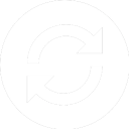
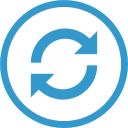
Animation de fou sur la synchro…

diff --git a/GraniouProjectManagement/ViewControllers/PTBAccountVC.m b/GraniouProjectManagement/ViewControllers/PTBAccountVC.m
@@ -68,8 +68,13 @@
 }
 
 - (IBAction)actionLogout:(id)sender {
+    [_viewLoading setHidden:false];
+    [self rotateView];
+    
     _user = [[PTBAuthUser alloc] init];
     [_user tryLogoutUserWithCallback:^(NSDictionary *infos) {
+        [_viewLoading setHidden:false];
+        
         _user = nil;
         if ([[infos objectForKey:@"uploaded"] isEqualToString:@"1"]) {
             
@@ -98,19 +103,20 @@
 
 - (IBAction)actionSync:(id)sender {
     [_viewLoading setHidden:false];
-
-    //_timer = [[NSTimer alloc] initWithFireDate:[NSDate date] interval:2.0 target:self selector:@selector(rotateView) userInfo:nil repeats:YES];
     [self rotateView];
     
     // Notification
-    [[NSNotificationCenter defaultCenter] addObserver:self selector:@selector(receivedNotification:) name:@"tachesUploaded" object:nil];
+    [[NSNotificationCenter defaultCenter] addObserver:self selector:@selector(receivedNotificationSynchro:) name:@"tachesUploaded" object:nil];
     [[PTBGetChantier sharedInstance] uploadNeededTaches];
 }
 
-- (void)receivedNotification:(NSNotification *)notification {
-    
-    
-    [_viewLoading setHidden:true];
+- (void)receivedNotificationSynchro:(NSNotification *)notification {
+    [UIView animateWithDuration:2.0 animations:^{
+        _viewLoading.alpha = 0.0;
+    } completion:^(BOOL finished) {
+        [_viewLoading setHidden:true];
+        _viewLoading.alpha = 0.8;
+    }];
     
     [[NSNotificationCenter defaultCenter] removeObserver:self name:@"tachesUploaded" object:nil];
 }

diff --git a/GraniouProjectManagement/ViewControllers/PTBDocumentsTableVC.m b/GraniouProjectManagement/ViewControllers/PTBDocumentsTableVC.m
@@ -10,6 +10,10 @@
 
 @interface PTBDocumentsTableVC ()
 
+@property (weak, nonatomic) IBOutlet PTBNavigationView *navigationView;
+
+
+
 @end
 
 @implementation PTBDocumentsTableVC
